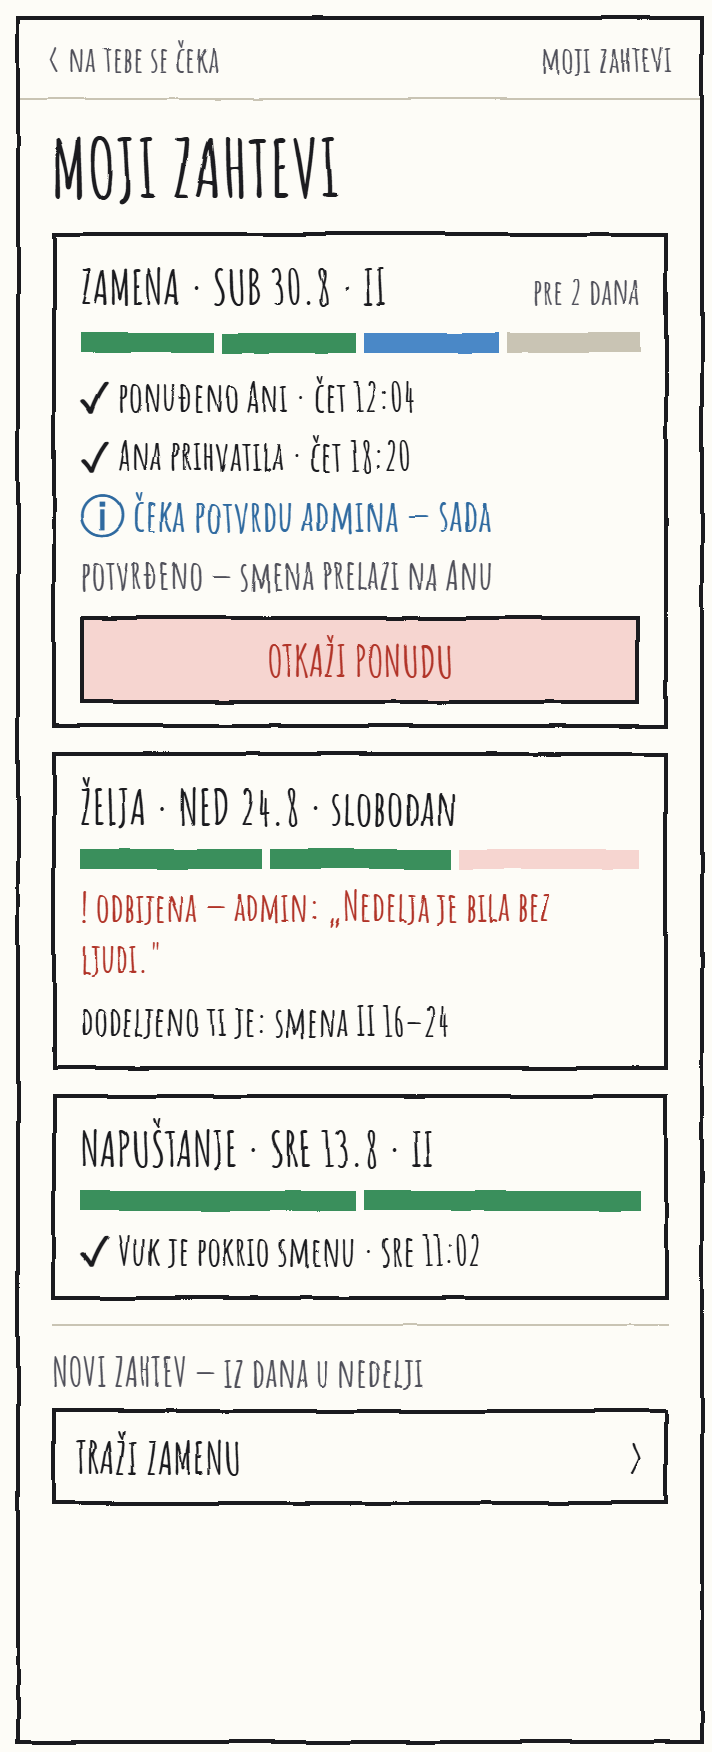
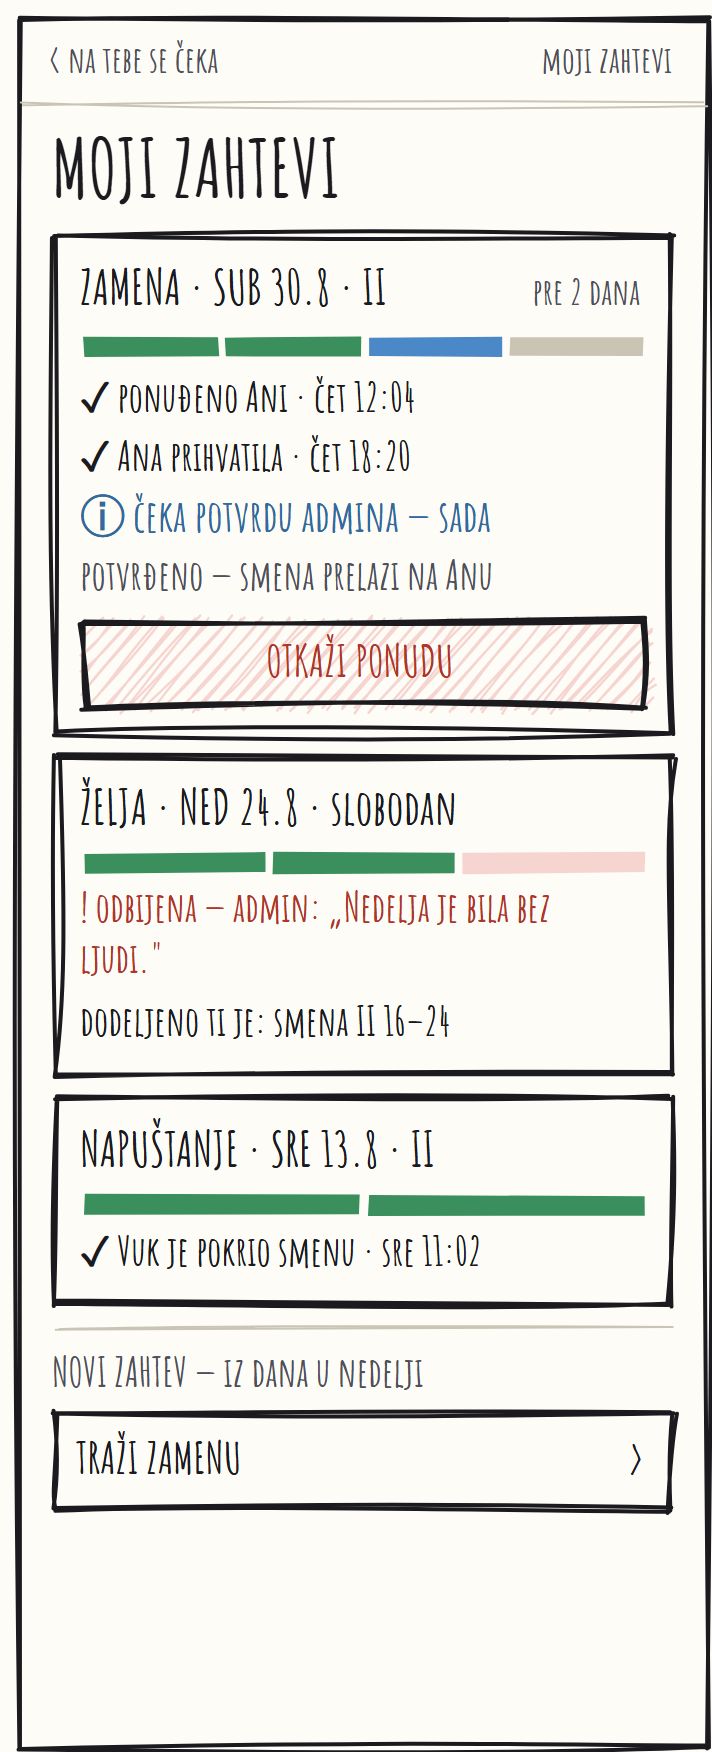
Draw the Smenager screens with Rough.js, the way the app does
The previous pass used an SVG turbulence filter, which wobbled the text
along with everything else. That was wrong on both counts: the app has a
real implementation, and it wobbles only the chrome.

src/components/sketch/ generates Rough.js paths and hands them to
react-native-svg. This runs the same library over the artboards after
layout, with the same settings the app uses: roughness 1.3, bowing 1.2,
hachure fills at gap 6. Text is untouched.

Two things the naive version got wrong. The fill layer needs the artboard
to be a stacking context, or a negative z-index escapes to the root and
the fills vanish behind the page. And roughness has to ease off on small
boxes, since Rough.js displaces by absolute pixels and 1.3 turns a 12px
status square into a wedge.

tools/ carries the renderer so the three images can be regenerated.

Changed region(s): [[0.0, 0.0, 1.0, 1.0], [0.4326, 0.0308, 0.4944, 0.0925]]

diff --git a/tools/sketch-pass.js b/tools/sketch-pass.js
@@ -1,0 +1,156 @@
+// Redraw an artboard's borders and fills as Rough.js strokes, the way the app
+// does it in src/components/sketch/. Text is left alone: the app wobbles the
+// chrome, not the lettering.
+//
+// Constants copied from src/components/sketch/index.tsx.
+const ROUGHNESS = 1.3;
+const BOWING = 1.2;
+const HACHURE_GAP = 6;
+const NS = 'http://www.w3.org/2000/svg';
+const TRANSPARENT = 'rgba(0, 0, 0, 0)';
+
+// The artboard's own paper colour. Hachuring it against itself is invisible
+// work, and it would scribble over the whole screen.
+const PAPER = 'rgb(253, 252, 247)';
+
+// Below this, hachure lines are too sparse to read as a fill, so go solid.
+const HACHURE_MIN = 26;
+
+// Rough.js displaces vertices by an absolute number of pixels, so the full
+// roughness that flatters a 300px card turns a 12px status square into a wedge.
+// Ease it off on small boxes.
+function easeRough(minDim) {
+  const t = Math.min(Math.max(minDim / 40, 0.25), 1);
+  return { roughness: ROUGHNESS * t, bowing: BOWING * t };
+}
+
+function sketch(seed) {
+  const gen = rough.generator();
+  const root = document.querySelector('.artboard');
+  const rootBox = root.getBoundingClientRect();
+
+  // position + z-index makes the artboard a stacking context, so the fill layer
+  // at z-index -1 lands above its paper background and below the text. Without
+  // the z-index it escapes to the root context and disappears behind the page.
+  root.style.position = 'relative';
+  root.style.zIndex = '0';
+
+  const under = layer(-1);
+  const over = layer(3);
+  root.appendChild(under);
+  root.appendChild(over);
+
+  // Deterministic per-element seeds, so a re-render is byte-identical.
+  let counter = seed;
+  const nextSeed = () => (counter = (counter * 1103515245 + 12345) & 0x7fffffff);
+
+  function layer(z) {
+    const svg = document.createElementNS(NS, 'svg');
+    svg.setAttribute('width', String(rootBox.width));
+    svg.setAttribute('height', String(rootBox.height));
+    svg.style.cssText = `position:absolute;left:0;top:0;pointer-events:none;z-index:${z};overflow:visible`;
+    return svg;
+  }
+
+  function path(d, attrs) {
+    const p = document.createElementNS(NS, 'path');
+    p.setAttribute('d', d);
+    for (const [k, v] of Object.entries(attrs)) p.setAttribute(k, String(v));
+    return p;
+  }
+
+  function emitFill(svg, drawable, color, weight) {
+    for (const set of drawable.sets) {
+      const d = gen.opsToPath(set);
+      if (!d) continue;
+      if (set.type === 'fillSketch') {
+        svg.appendChild(path(d, {
+          stroke: color, 'stroke-width': weight, fill: 'none', 'stroke-linecap': 'round',
+        }));
+      } else if (set.type === 'fillPath') {
+        svg.appendChild(path(d, { fill: color, stroke: 'none' }));
+      }
+    }
+  }
+
+  function emitStroke(svg, drawable, color, width) {
+    for (const set of drawable.sets) {
+      if (set.type === 'fillSketch' || set.type === 'fillPath') continue;
+      const d = gen.opsToPath(set);
+      if (!d) continue;
+      svg.appendChild(path(d, {
+        stroke: color, 'stroke-width': width, fill: 'none',
+        'stroke-linecap': 'round', 'stroke-linejoin': 'round',
+      }));
+    }
+  }
+
+  const all = [root, ...root.querySelectorAll('*')];
+
+  for (const el of all) {
+    if (el.tagName === 'svg' || el.closest('svg')) continue;
+
+    const cs = getComputedStyle(el);
+    const r = el.getBoundingClientRect();
+    const w = r.width;
+    const h = r.height;
+    if (w < 2 || h < 2) continue;
+
+    const x = r.left - rootBox.left;
+    const y = r.top - rootBox.top;
+
+    const bg = cs.backgroundColor;
+    if (bg && bg !== TRANSPARENT && bg !== PAPER) {
+      const hachure = Math.min(w, h) >= HACHURE_MIN;
+      const drawable = gen.rectangle(x, y, w, h, {
+        ...easeRough(Math.min(w, h)),
+        seed: nextSeed(),
+        stroke: 'none',
+        fill: bg,
+        fillStyle: hachure ? 'hachure' : 'solid',
+        fillWeight: 1.2,
+        hachureGap: HACHURE_GAP,
+      });
+      emitFill(under, drawable, bg, 1.2);
+      el.style.backgroundColor = 'transparent';
+    }
+
+    const sides = ['Top', 'Right', 'Bottom', 'Left'].map((s) => ({
+      width: parseFloat(cs[`border${s}Width`]) || 0,
+      color: cs[`border${s}Color`],
+    }));
+    const visible = sides.filter((s) => s.width > 0 && s.color !== TRANSPARENT);
+    if (!visible.length) continue;
+
+    const uniform =
+      visible.length === 4 &&
+      sides.every((s) => s.width === sides[0].width && s.color === sides[0].color);
+
+    const opts = { ...easeRough(Math.min(w, h)), seed: nextSeed() };
+
+    if (uniform) {
+      emitStroke(over, gen.rectangle(x, y, w, h, opts), sides[0].color, sides[0].width);
+    } else {
+      // A hairline rule or a highlighter cap on one edge: draw the sides that exist.
+      const [top, right, bottom, left] = sides;
+      const edges = [
+        [top, x, y, x + w, y],
+        [right, x + w, y, x + w, y + h],
+        [bottom, x, y + h, x + w, y + h],
+        [left, x, y, x, y + h],
+      ];
+      for (const [side, x1, y1, x2, y2] of edges) {
+        if (side.width <= 0 || side.color === TRANSPARENT) continue;
+        const line = gen.line(x1, y1, x2, y2, { ...opts, seed: nextSeed() });
+        emitStroke(over, line, side.color, side.width);
+      }
+    }
+    el.style.borderColor = 'transparent';
+  }
+
+  document.documentElement.dataset.sketched = 'done';
+}
+
+document.fonts.ready.then(() => {
+  requestAnimationFrame(() => sketch(window.__SEED__ ?? 1));
+});

diff --git a/README.md b/README.md
@@ -1,19 +1,44 @@
 # Portfolio site
 
-Four files, no build step, no dependencies.
+No build step and no dependencies.
 
 ```
 index.html             content
 styles.css             all styling, dark by default, light via toggle or system preference
 script.js              theme toggle, scroll spy, reveal on scroll
 Stefan-Dili-CV.pdf     linked from the hero
-smenager-today.png     three Smenager artboards, rendered from the Claude Design canvas
-smenager-requests.png  "Smenager - strukturni predlozi.dc.html", row 2a, screens 1, 5 and 6
-smenager-hours.png     at 340x860 CSS px, headless Chrome at 2x
+smenager-today.png     three Smenager artboards, see "Re-rendering the screens"
+smenager-requests.png
+smenager-hours.png
+tools/                 the renderer for those three, not shipped with the site
 ```
 
 Open `index.html` in a browser and it works. Nothing is fetched from a CDN, so it
 also works offline and from a USB stick.
+
+## Re-rendering the screens
+
+The three Smenager images come from the Claude Design canvas
+`Smenager - strukturni predlozi.dc.html`, row 2a, screens 1, 5 and 6. The bottom
+info box is stripped from 5 and 6.
+
+`tools/render-screens.mjs` pulls each artboard out of the canvas file and writes a
+standalone page. `tools/sketch-pass.js` then runs inside that page and redraws
+every border and fill as Rough.js strokes, using the same library and the same
+settings as the app itself (`ROUGHNESS = 1.3`, `BOWING = 1.2`, hachure fills at
+gap 6, from `src/components/sketch/index.tsx` in the smenager repo). Text is left
+alone: the app wobbles the chrome, not the lettering. Roughness eases off on small
+elements, because Rough.js displaces by absolute pixels and full roughness turns a
+12px status square into a wedge.
+
+```bash
+node tools/render-screens.mjs /tmp/screens
+```
+
+Then copy `rough.js` (from smenager's `node_modules/roughjs/bundled/`) and
+`tools/sketch-pass.js` next to the generated pages, and screenshot each at
+356x876 with a headless browser at 2x device scale. Keep the output path short:
+Chrome's screenshot writer silently fails past the Windows 260-character limit.
 
 ## Deploy
 
